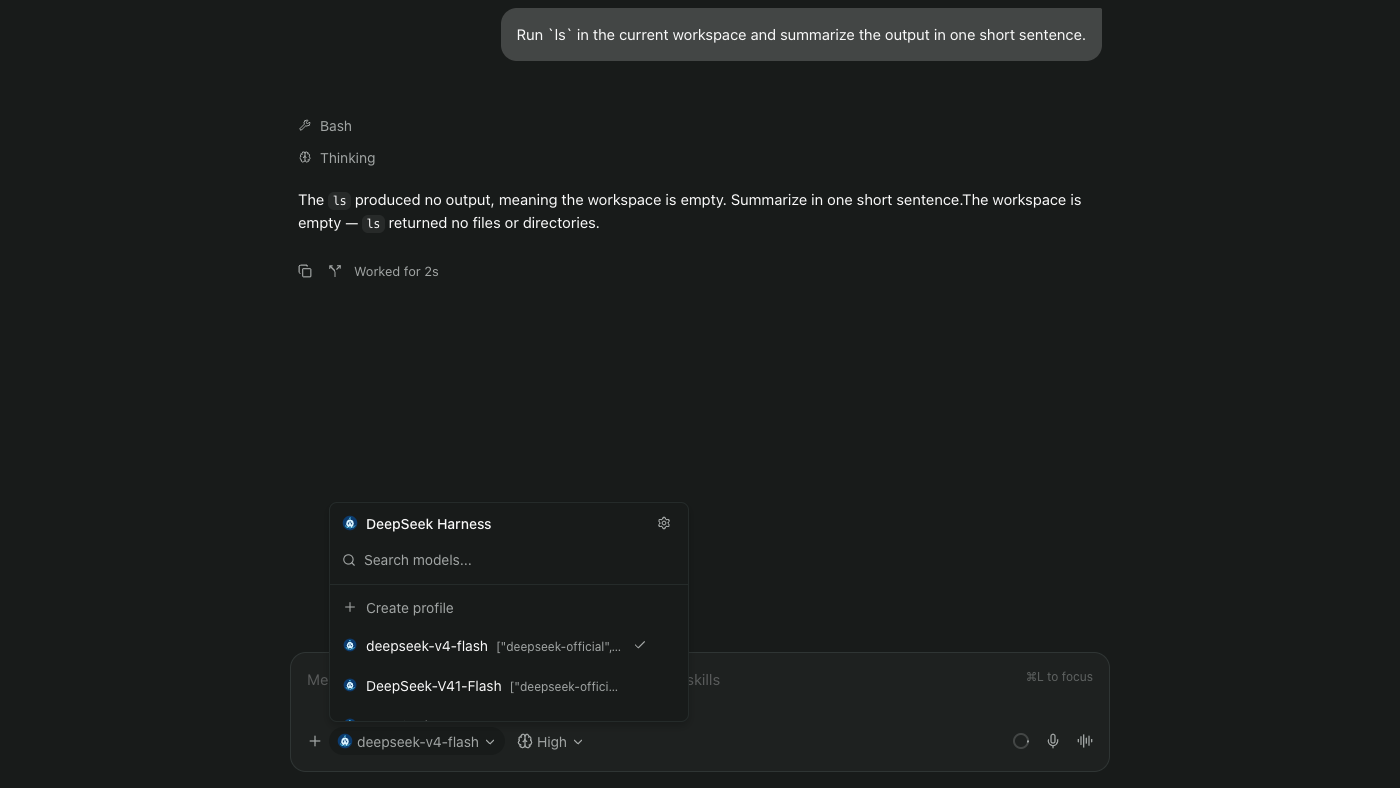
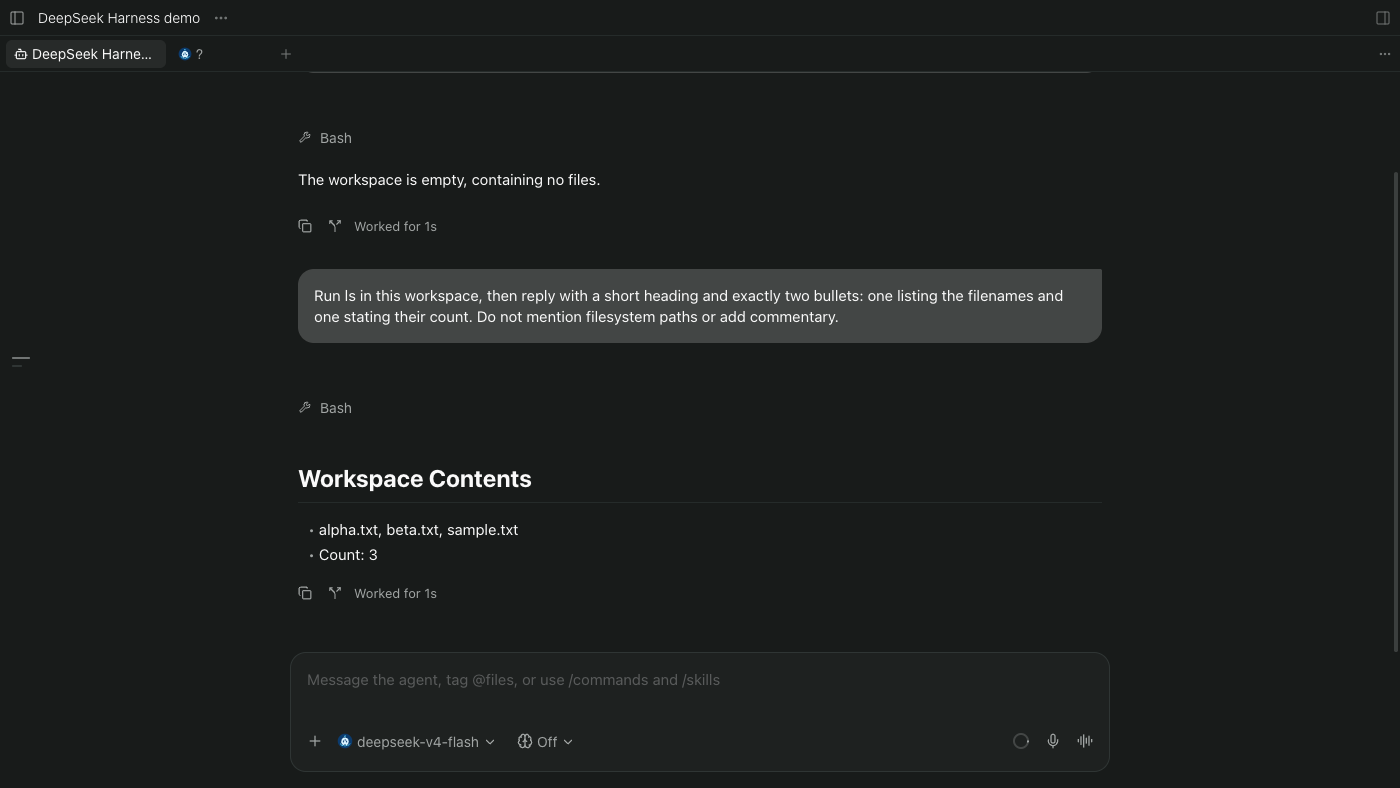
chore(deepseek-harness): refresh Cafe cover image (#19)

diff --git a/plugins/deepseek-harness/docs/screenshots.md b/plugins/deepseek-harness/docs/screenshots.md
@@ -3,17 +3,19 @@
 ## Cover — 2026-09-29
 
 `../images/cover.png` is a real Chromium viewport capture of the hosted Paseo
-web client (`app.paseo.sh`) paired with a local Paseo 0.10.1 daemon. The
-conversation uses a synthetic prompt and a real DeepSeek Harness turn with
-`deepseek-v4-flash`: it runs `ls` in the empty
-`/tmp/dsh-cover-scratch-2026-09-29` workspace and returns a completed reply
-with the Bash tool call visible. The local DeepSeek Harness plugin was already
-enabled and running. The temporary agent was created for this capture; no
-pre-existing agents were touched.
+web client (`app.paseo.sh`) paired with a local Paseo 0.10.1 daemon. It shows
+two completed DeepSeek Harness turns using `deepseek-v4-flash`, with the Bash
+tool rows and final reply visible. The first synthetic `ls` ran in an empty
+workspace; the second ran after three harmless files (`alpha.txt`, `beta.txt`,
+and `sample.txt`) were created in a temporary `/tmp` workspace. The plugin was
+already enabled and running. The temporary agents were created for this
+capture; no pre-existing agents were touched.
 
-The 1600×900 viewport was cropped to 1400×788 (16:9), removing the left 200
-pixels containing the sidebar and the top 112 pixels containing the workspace
-header. The remaining screenshot shows the selected DeepSeek Harness provider
-and model. No message text was edited. The crop contains no personal project
-or conversation titles, email addresses, credentials, pairing URL, or paths
-outside `/tmp`.
+The saved viewport is 1400×788 pixels (approximately 16:9), with the sidebar
+collapsed and no post-capture crop or compositing. Reasoning was off. The model
+picker is closed: Paseo currently displays the model's opaque ACP route ID as a
+label when the picker is open, so the capture shows the selected
+`deepseek-v4-flash` chip in the composer instead. The displayed project and
+workspace title is the synthetic `DeepSeek Harness demo`. No text or UI was
+altered after capture. The image contains no personal project or
+conversation titles, email addresses, credentials, pairing URL, or file paths.

diff --git a/plugins/deepseek-harness/README.md b/plugins/deepseek-harness/README.md
@@ -7,9 +7,9 @@ replacement agent loop or an official DeepSeek/Paseo endorsement. It runs
 `dsh --profile acp`; Paseo owns the chat UI. No custom client surface or
 patched Paseo app is required.
 
-![DeepSeek Harness selected in Paseo's model picker beside a completed reply and Bash tool call](images/cover.png)
+![A completed DeepSeek Harness conversation with the selected model, Bash tool calls, and reply](images/cover.png)
 
-*Real hosted Paseo web-client capture using a synthetic prompt and `/tmp` workspace. [Screenshot provenance](https://github.com/geoqiao/paseo-stuff/blob/main/plugins/deepseek-harness/docs/screenshots.md).*
+*Real hosted Paseo web-client capture using synthetic prompts and a `/tmp` workspace. The model picker is closed because Paseo displays the opaque ACP route ID when it is open. [Screenshot provenance](https://github.com/geoqiao/paseo-stuff/blob/main/plugins/deepseek-harness/docs/screenshots.md).*
 
 [Install](#install-prerequisites) · [Compatibility](#acp-compatibility-and-limitations) · [Verification](https://github.com/geoqiao/paseo-stuff/blob/main/plugins/deepseek-harness/docs/verification.md) · [Code review](https://github.com/geoqiao/paseo-stuff/blob/main/plugins/deepseek-harness/docs/code-review.md)
 
